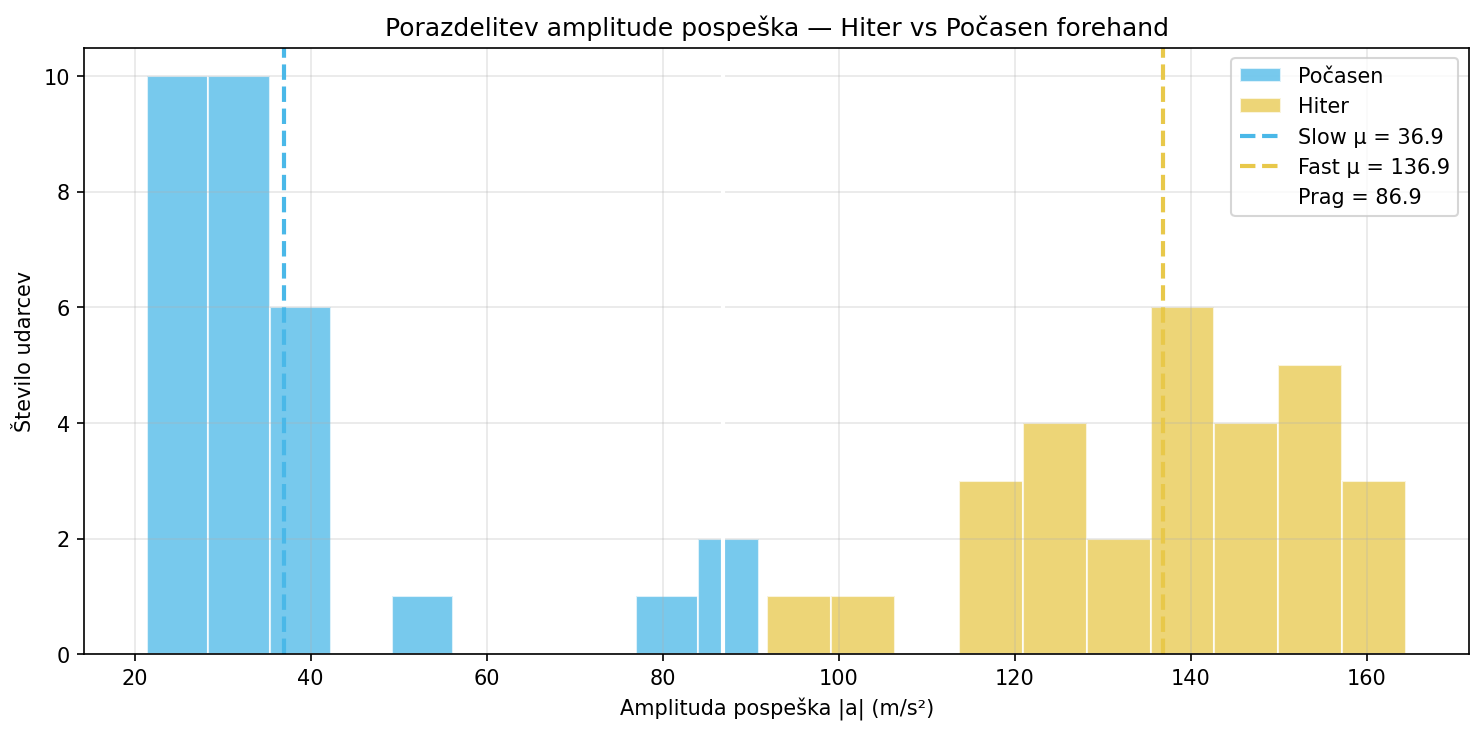
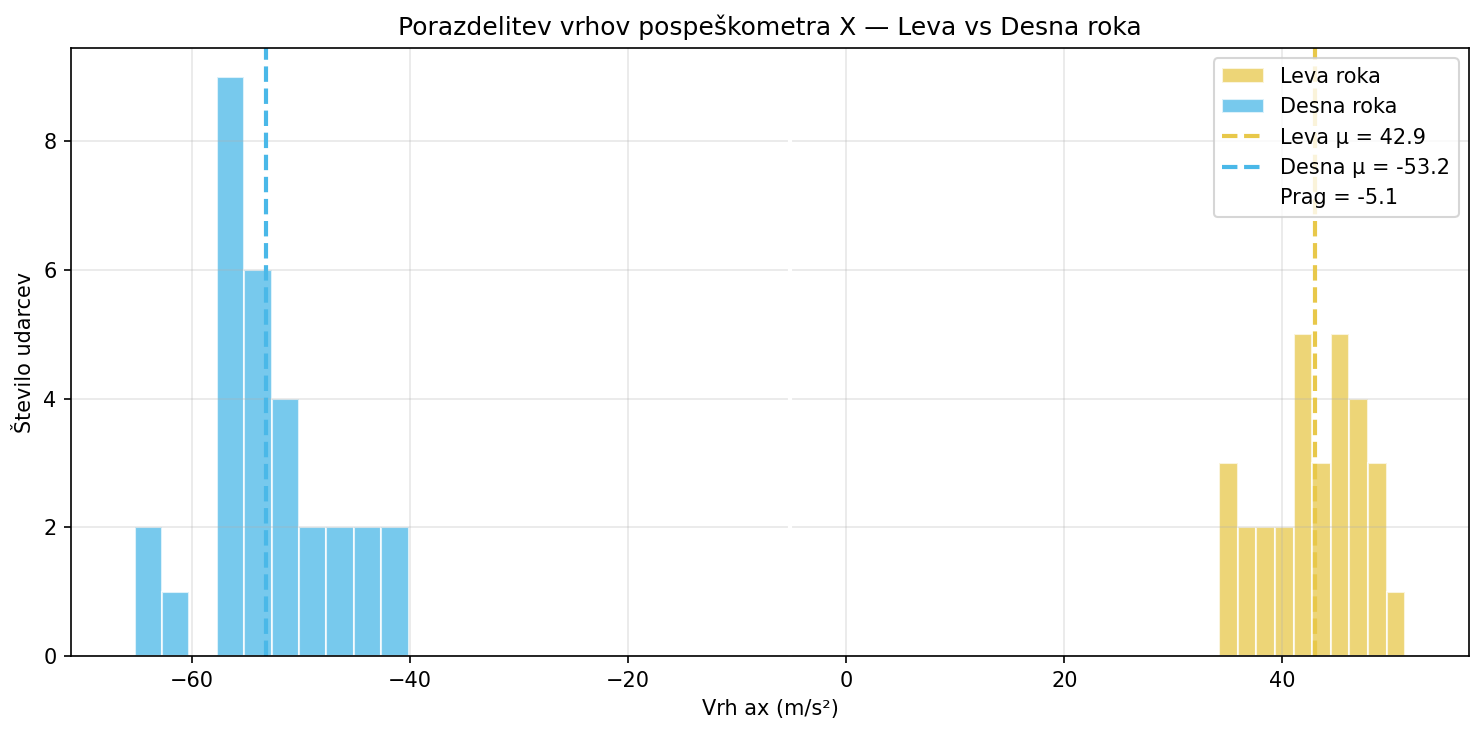
Vaja 3

diff --git a/vaja3/index.html b/vaja3/index.html
@@ -1,0 +1,45 @@
+<!DOCTYPE html>
+<html>
+<head>
+  <meta name="viewport" content="width=device-width, initial-scale=1">
+  <script src="https://unpkg.com/mqtt/dist/mqtt.min.js"></script>
+</head>
+<body>
+  <h2>FocusRoom – Phone Detector</h2>
+  <p id="status">Connecting...</p>
+  <p id="accel"></p>
+
+<script>
+  const TOPIC = "focusroom/phone/alert";
+  const THRESHOLD = 12; // m/s² - prilagodi po potrebi
+  let alertSent = false;
+  let lastAlertTime = 0;
+
+  // MQTT preko WebSocket
+  const client = mqtt.connect("wss://broker.hivemq.com:8884/mqtt");
+
+  client.on("connect", () => {
+    document.getElementById("status").textContent = "MQTT connected ✅";
+  });
+
+  // Pospeškometer
+  window.addEventListener("devicemotion", (event) => {
+    const acc = event.accelerationIncludingGravity;
+    const total = Math.sqrt(acc.x**2 + acc.y**2 + acc.z**2);
+
+    document.getElementById("accel").textContent = `Acceleration: ${total.toFixed(2)} m/s²`;
+
+    const now = Date.now();
+    // Pošlji alert če preko threshold in ni bil poslan zadnjih 5s
+    if (total > THRESHOLD && (now - lastAlertTime) > 5000) {
+      client.publish(TOPIC, "PHONE_PICKED_UP");
+      lastAlertTime = now;
+      document.getElementById("status").textContent = "⚠ Alert poslan!";
+      setTimeout(() => {
+        document.getElementById("status").textContent = "MQTT connected ✅";
+      }, 2000);
+    }
+  });
+</script>
+</body>
+</html>
